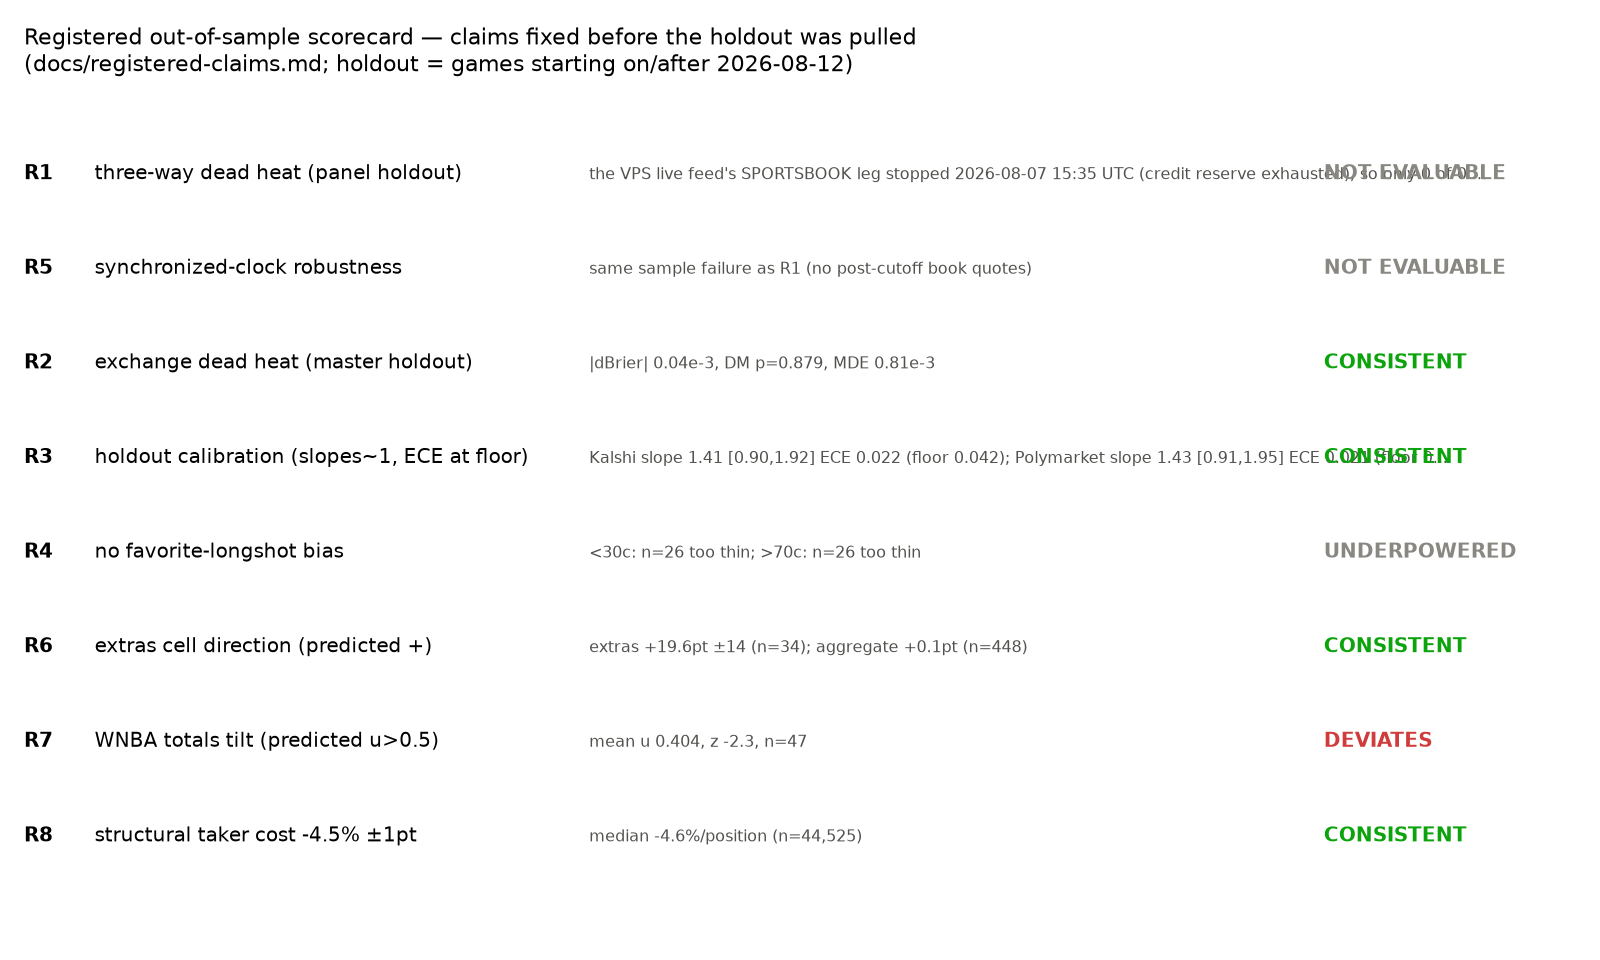
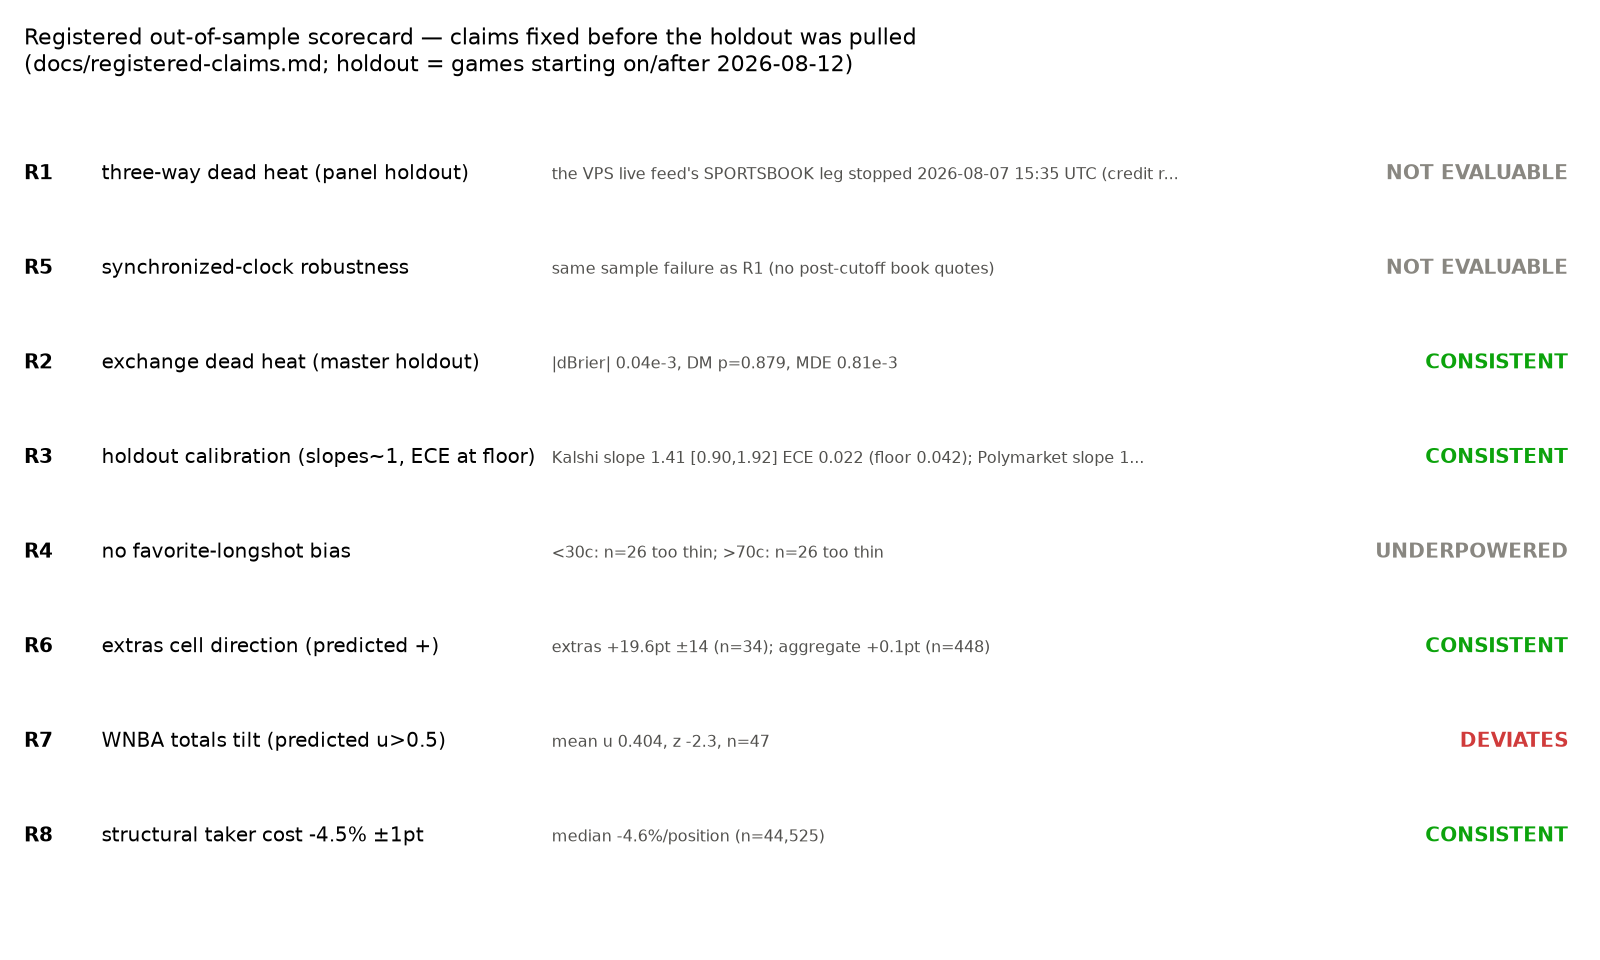
Freeze polish: scorecard figure overlaps, residual §3 counts to frozen values

diff --git a/src/analysis/oos_verification.py b/src/analysis/oos_verification.py
@@ -398,10 +398,10 @@ def figure():
         ax.text(0.00, yy, row["id"], fontsize=9, weight="bold", transform=ax.transAxes)
         ax.text(0.05, yy, row["claim"], fontsize=9, transform=ax.transAxes)
         stat = row["stat"]
-        if len(stat) > 110:
-            stat = stat[:107] + "..."
-        ax.text(0.40, yy, stat, fontsize=7, color="#52514e", transform=ax.transAxes)
-        ax.text(0.92, yy, row["verdict"], fontsize=9, weight="bold",
+        if len(stat) > 76:
+            stat = stat[:73] + "..."
+        ax.text(0.34, yy, stat, fontsize=7, color="#52514e", transform=ax.transAxes)
+        ax.text(0.995, yy, row["verdict"], fontsize=9, weight="bold", ha="right",
                 color=colors.get(row["verdict"], "#0b0b0b"), transform=ax.transAxes)
     fig.tight_layout()
     fig.savefig("results/oos_scorecard.png", dpi=160)

diff --git a/docs/drafting-plan.md b/docs/drafting-plan.md
@@ -241,8 +241,8 @@ means writing its beats in order and nothing else.
 - **¶2 The books benchmark is not one thing.** US consensus, EU per-book
   including Pinnacle and Betfair, US per-book at 86% of the joint set, T-24h,
   alt-spreads, outrights 2020–26. Say plainly which claims rest on which.
-- **¶3 Master and joint set.** 9,778 games / 7 leagues; three-way clean
-  n=5,327. Explain the attrition from master to joint set explicitly — a
+- **¶3 Master and joint set.** 10,118 games / 7 leagues; three-way clean
+  n=5,333 (frozen 2026-08-29). Explain the attrition from master to joint set explicitly — a
   reader will ask, and answering pre-emptively buys credibility.
 - **¶4 External validation.** Trade-recon vs archived books 99% within 1pt;
   Poly CLOB vs archived books median error 0.00pt.

diff --git a/docs/report-outline.md b/docs/report-outline.md
@@ -101,7 +101,7 @@ HORIZON — people using these for long-term wealth — which is exactly the axi
   pre-cutoff), Polymarket Global (CLOB), Polymarket US (DCM tape),
   sportsbooks (Odds API: US consensus, EU per-book incl. Pinnacle/Betfair,
   US per-book (86% of joint set), T-24h, alt-spreads, outrights 2020-26), ESPN
-  anchor. Master 9,419 games / 7 leagues; three-way clean n=5,328.
+  anchor. Master 10,118 games / 7 leagues; three-way clean n=5,333 (frozen).
 - External validation: trade-recon vs archived books 99% within 1pt; Poly
   CLOB vs archived books median error 0.00pt.
 - Audit-gate architecture (73 checks, suite halts on failure) + the
